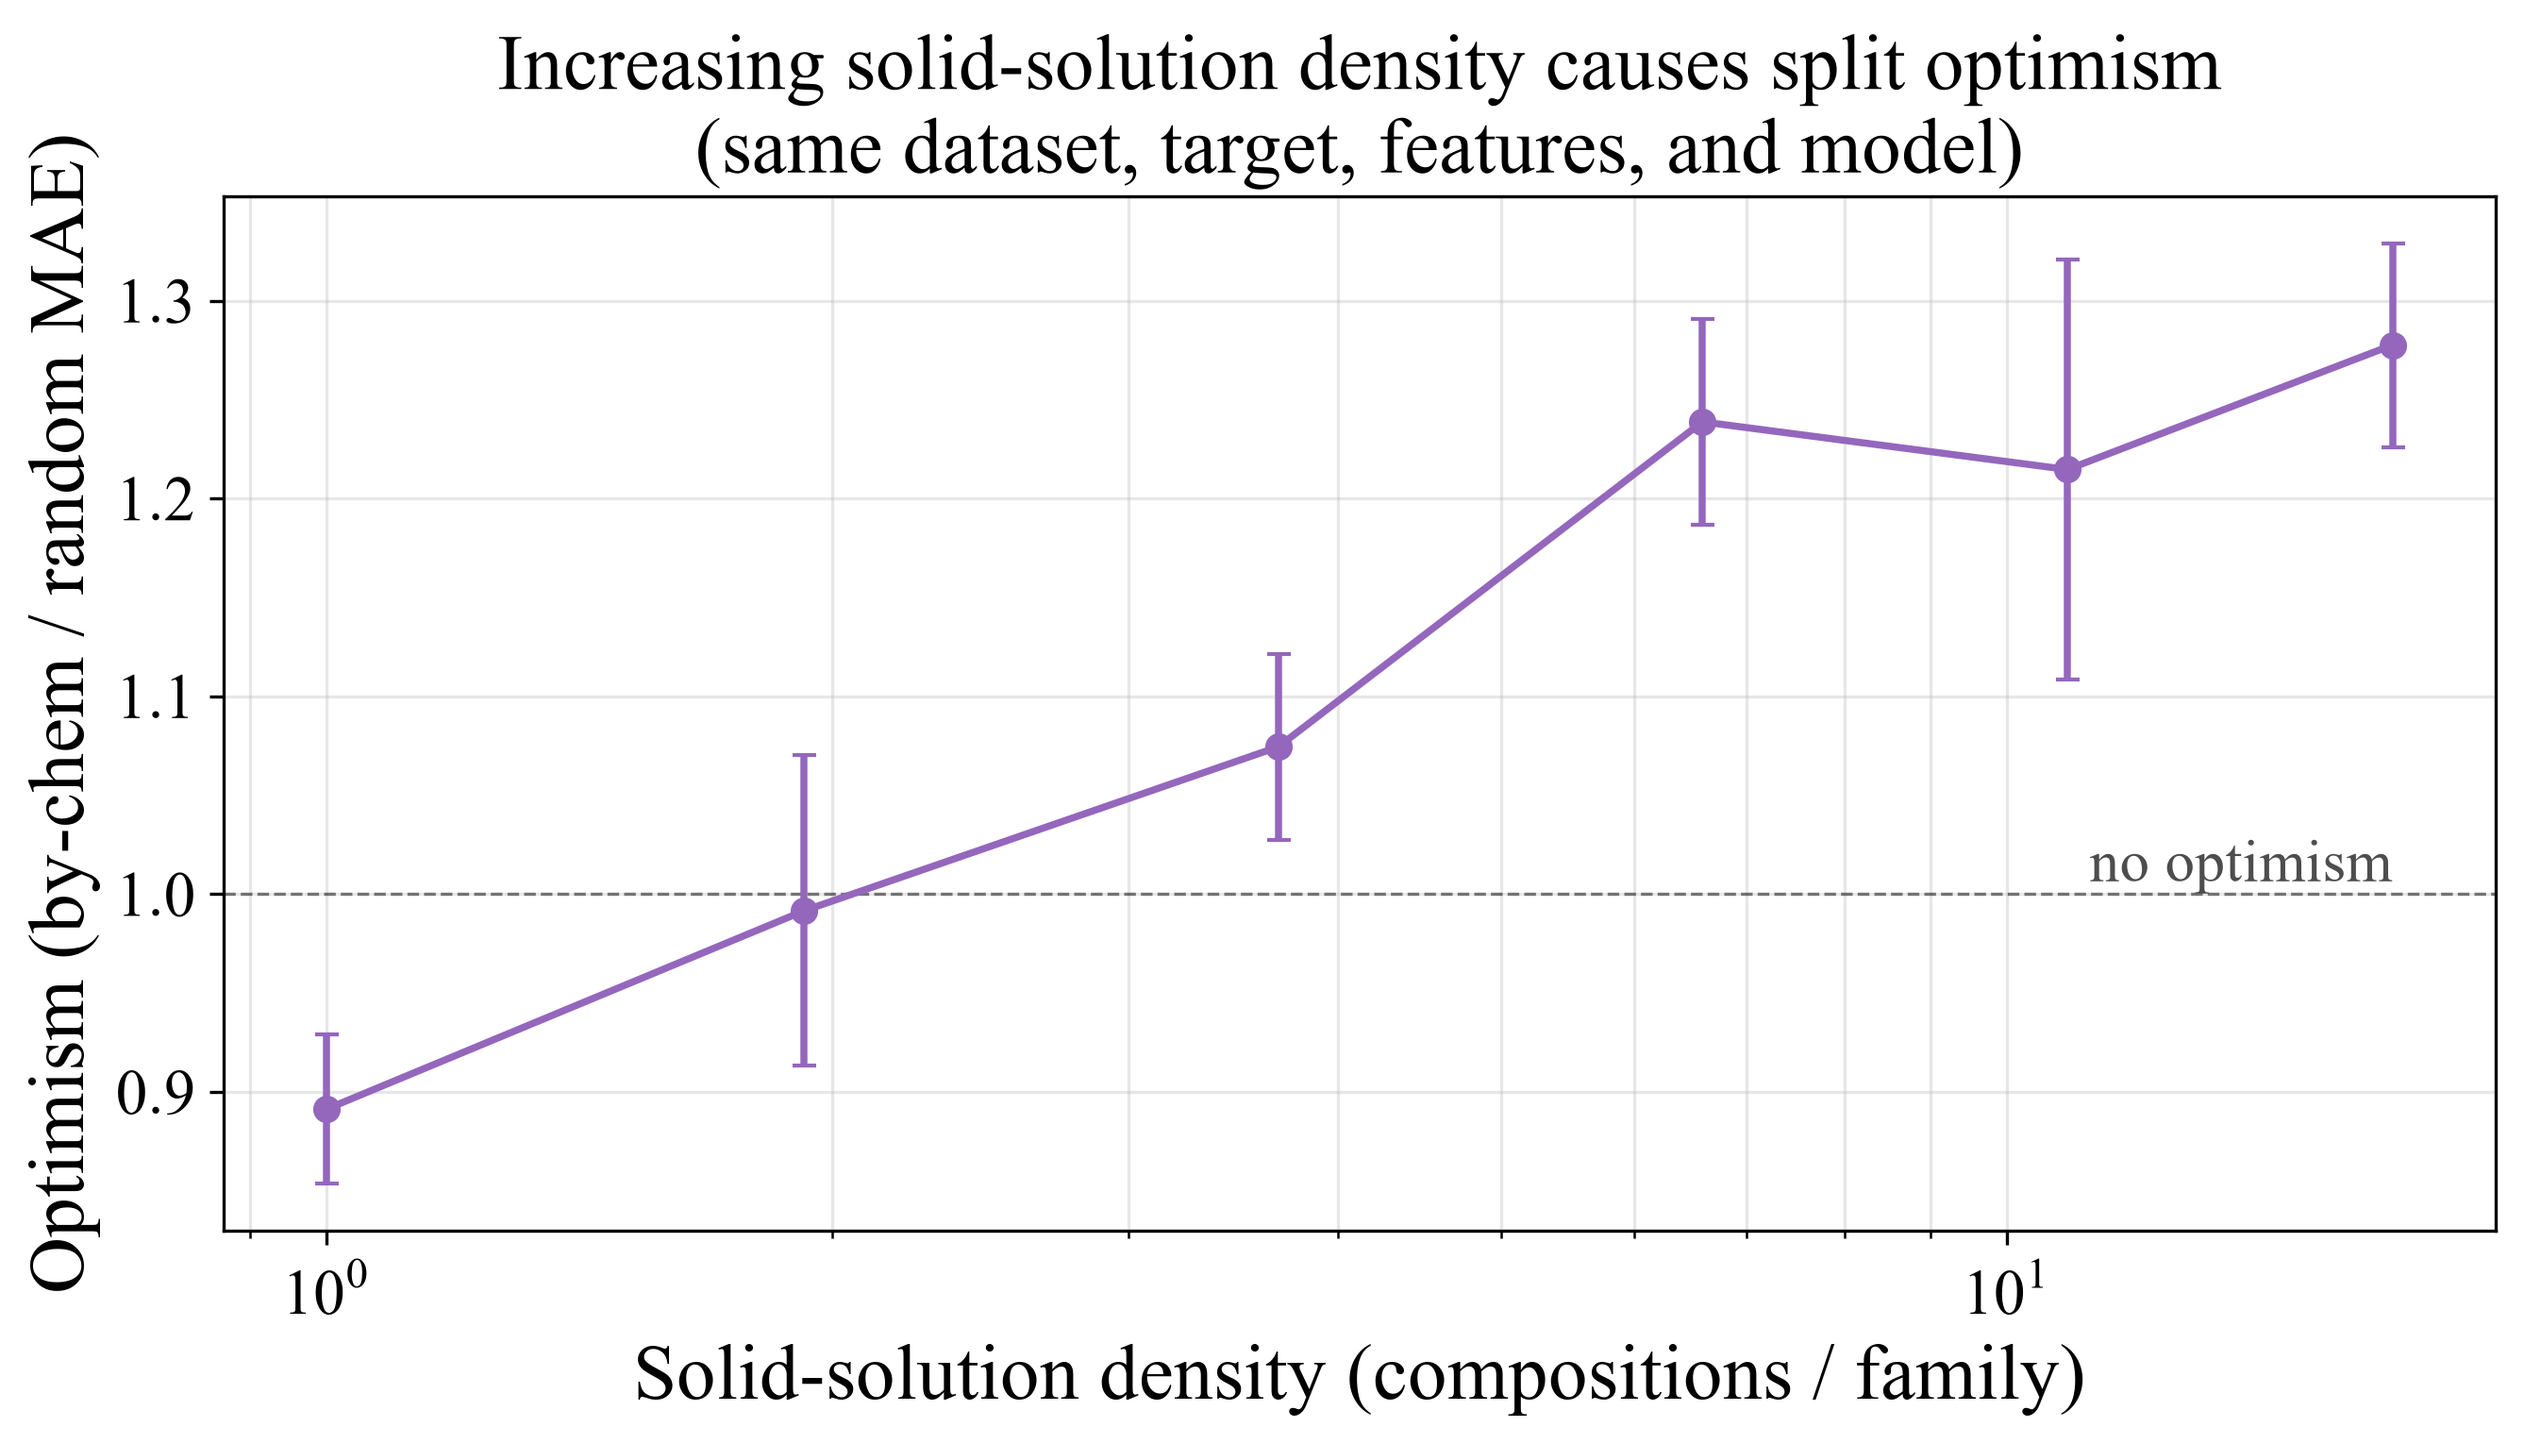
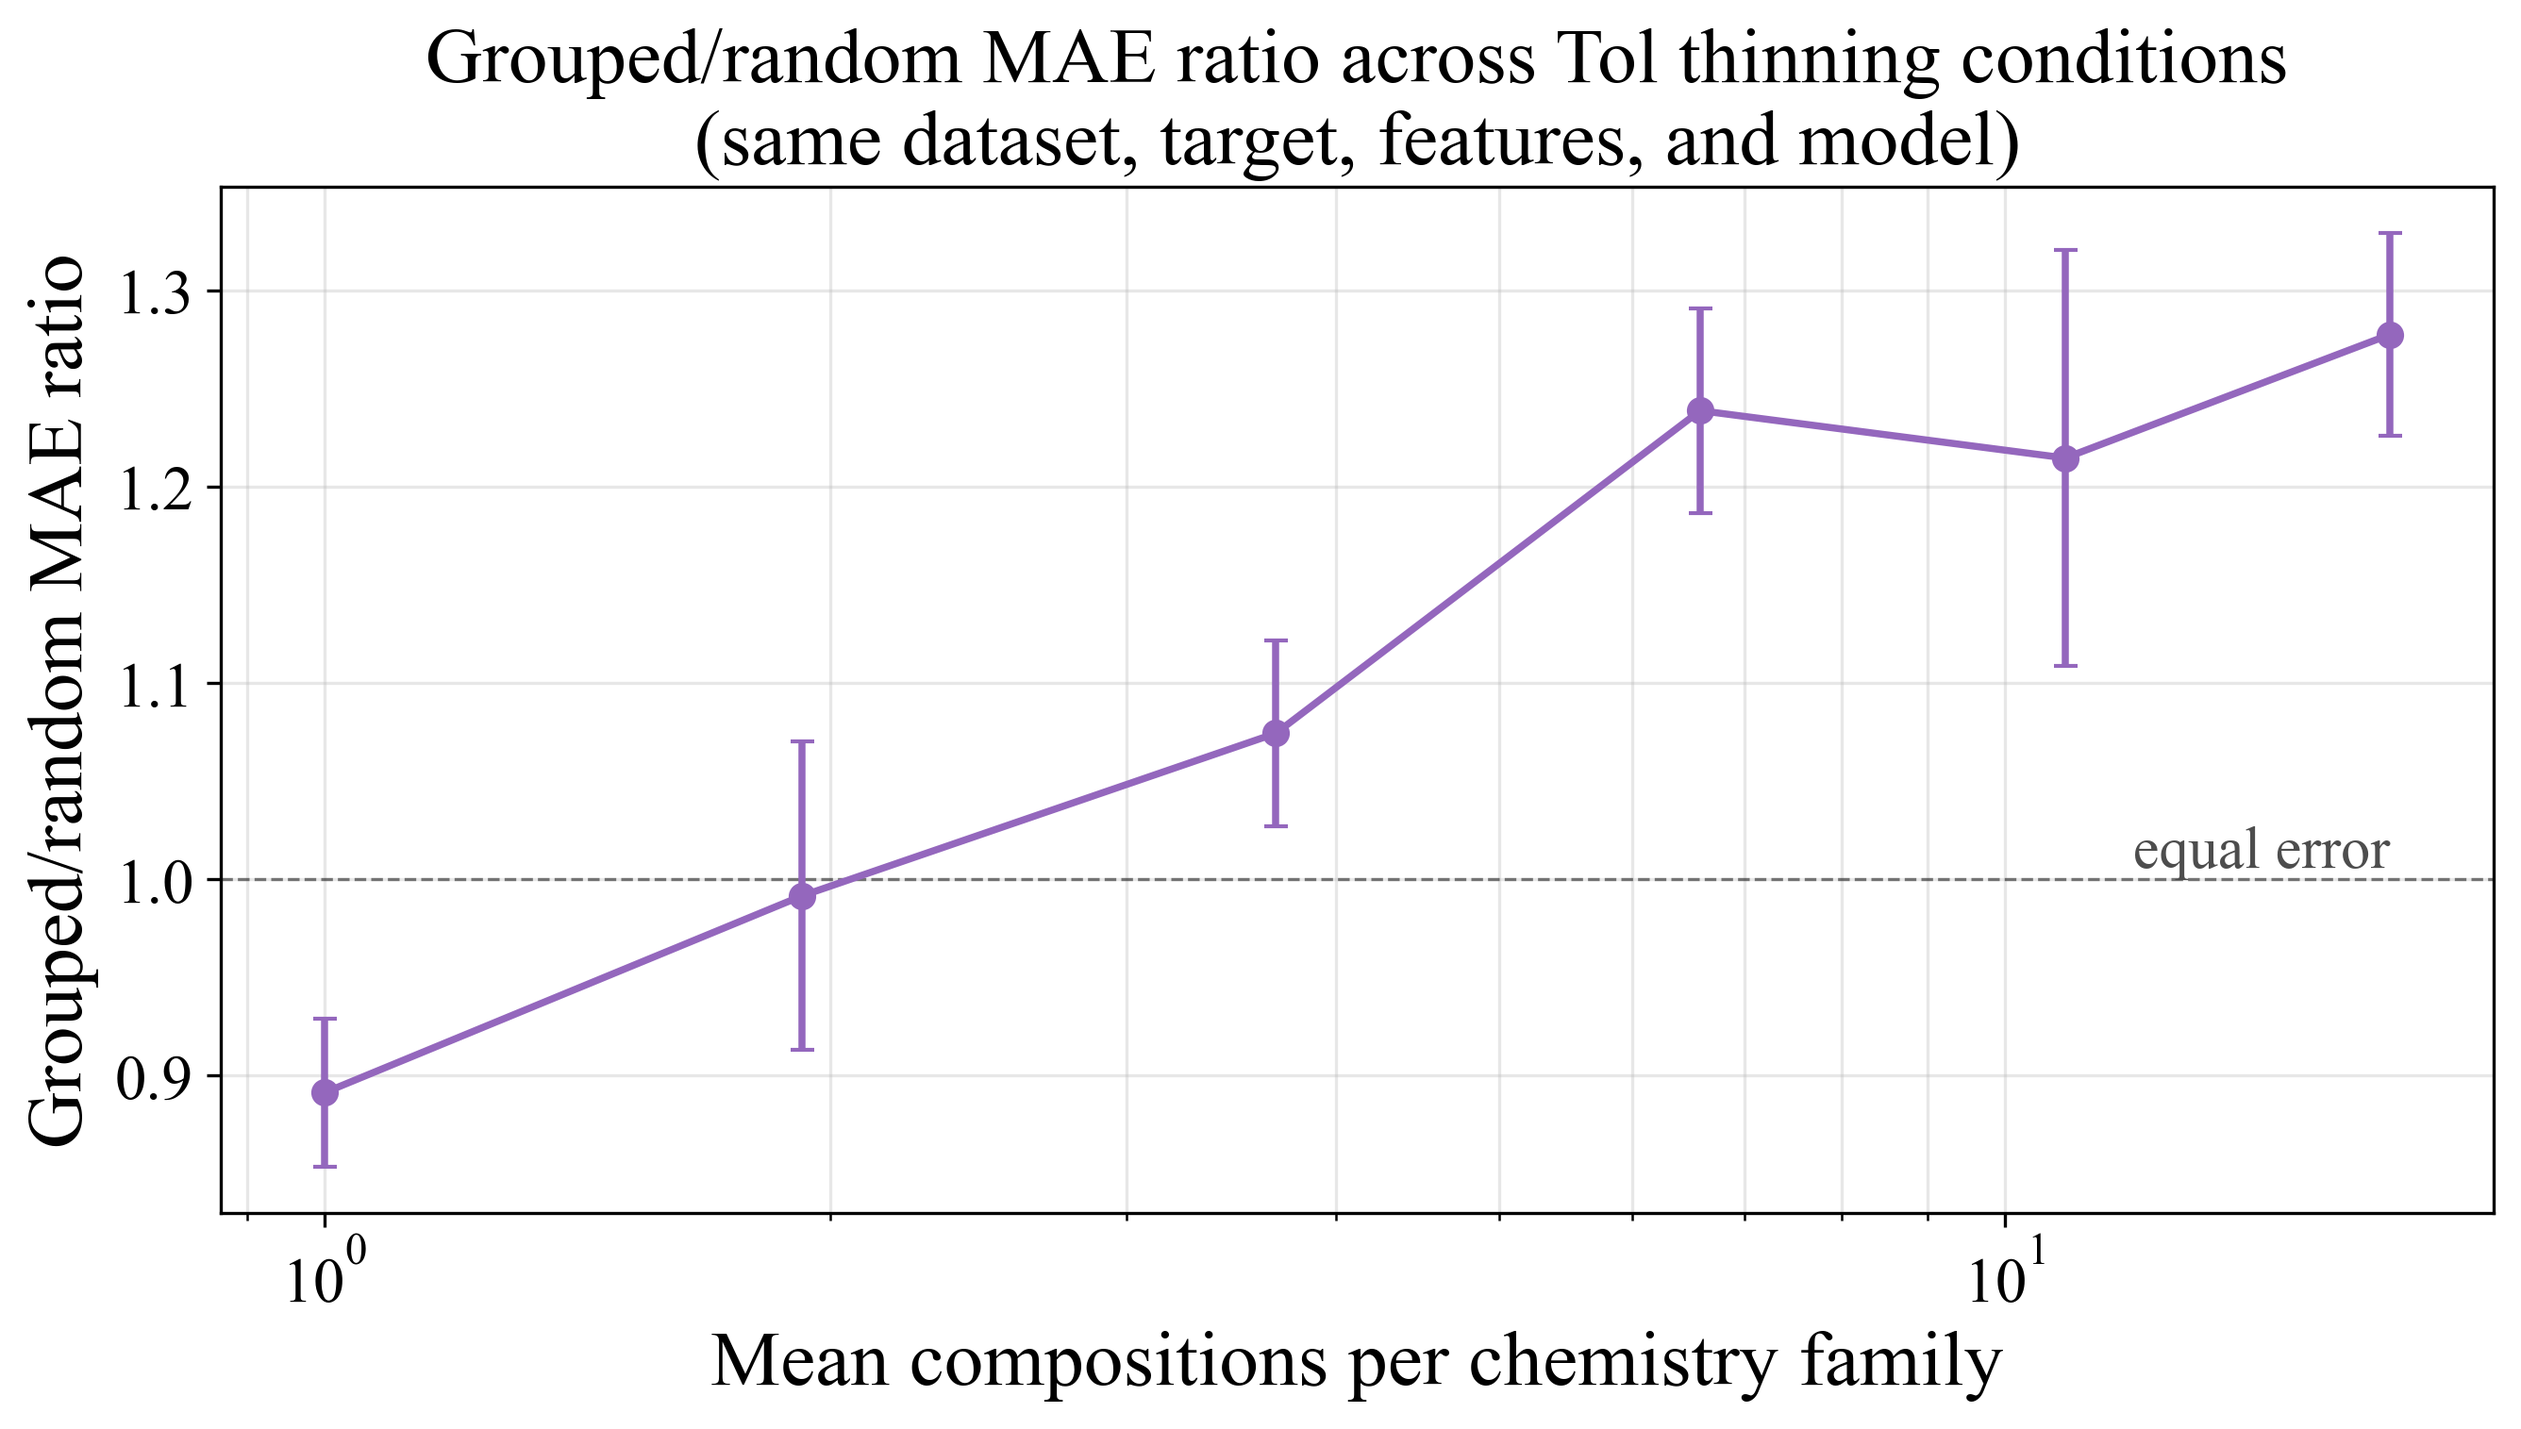
Figures 1 and S4: match the paper's terminology and fit the text
Figure S4 still used the retired names, an Optimism axis against a
solid-solution-density axis, while its caption used the corrected ones.
It now plots the grouped/random MAE ratio against mean compositions per
chemistry family; the data are unchanged.

Figure 1 labelled the gate threshold tau where the paper uses theta, and
its gate and input boxes were narrower than their own text.

Claude-Session: https://claude.ai/code/session_01R1zcSb1ShmCT9wuDRAqQ2U

diff --git a/scripts/make_schematic.py b/scripts/make_schematic.py
@@ -61,27 +61,29 @@ def elbow(ax, pts):
 def main():
     fig, ax = plt.subplots(figsize=(11, 6))
     ax.set_aspect("equal")               # equal units -> no distortion under a tight crop
-    ax.set_xlim(0, 146); ax.set_ylim(8, 92); ax.axis("off")
+    ax.set_xlim(0, 150); ax.set_ylim(8, 92); ax.axis("off")
 
-    box(ax, 13, 60, 20, 22, "Material", "formula +\nnative columns", C_IN)
-    box(ax, 41, 60, 20, 22, "Featurize", "Magpie (132) +\nnative columns", C_IN)
+    # The two input boxes are wider than the rest: their body text is the longest in the diagram and
+    # at the old width it ran past the rounded border.
+    box(ax, 14, 60, 25, 22, "Material", "formula +\nnative columns", C_IN)
+    box(ax, 45, 60, 27, 22, "Featurize", "Magpie (132) +\nnative columns", C_IN)
     box(ax, 78, 80, 26, 18, "Classifier", "metal / non-metal\n→ P(non-metal)", C_CLF)
     box(ax, 78, 40, 26, 18, "Regressor", "non-zero gaps\nlog(1 + gap)", C_REG)
-    box(ax, 112, 60, 18, 21, "Gate", "[P ≥ τ] × ĝap\nτ = 0.25", C_GATE)
-    box(ax, 133, 60, 16, 22, "Predicted", "band gap\n(0 if metal)", C_OUT, fs=14)
+    box(ax, 111, 60, 24, 21, "Gate", "[P ≥ θ] × ĝap\nθ = 0.25", C_GATE)
+    box(ax, 137, 60, 16, 22, "Predicted", "band gap\n(0 if metal)", C_OUT, fs=14)
 
     # input chain
-    elbow(ax, [(23, 60), (31, 60)])                           # material -> featurize
+    elbow(ax, [(27, 60), (31, 60)])                           # material -> featurize
     # branch: featurize -> classifier (up) and regressor (down)
-    line(ax, [(51, 60), (58, 60)])                            # shared stem
-    elbow(ax, [(58, 60), (58, 80), (65, 80)])                 # -> classifier
-    elbow(ax, [(58, 60), (58, 40), (65, 40)])                 # -> regressor
+    line(ax, [(59, 60), (62, 60)])                            # shared stem
+    elbow(ax, [(62, 60), (62, 80), (65, 80)])                 # -> classifier
+    elbow(ax, [(62, 60), (62, 40), (65, 40)])                 # -> regressor
     # merge: classifier & regressor -> gate (Y-join, single clear arrow in)
     line(ax, [(91, 80), (98, 80), (98, 60)])                  # classifier -> merge node
     line(ax, [(91, 40), (98, 40), (98, 60)])                  # regressor  -> merge node
-    elbow(ax, [(98, 60), (103, 60)])                          # merge -> gate
+    elbow(ax, [(98, 60), (99, 60)])                           # merge -> gate
     # output
-    elbow(ax, [(121, 60), (125, 60)])                         # gate -> predicted gap
+    elbow(ax, [(123, 60), (129, 60)])                         # gate -> predicted gap
 
     note = ("Evaluation: report non-zero-subset MAE / RMSE (not aggregate accuracy),\n"
             "under random / by-composition / by-chemistry splits")

diff --git a/scripts/mechanism_causal.py b/scripts/mechanism_causal.py
@@ -120,10 +120,12 @@ def main():
     ax.errorbar(dens, opt, yerr=err, marker="o", ms=6, lw=1.8, capsize=3,
                 color="tab:purple", zorder=3)
     ax.axhline(1.0, color="k", lw=0.8, alpha=0.5, ls="--")
-    ax.text(dens.max(), 1.0, " no optimism", va="bottom", ha="right", fontsize=15, color="0.3")
+    ax.text(dens.max(), 1.0, " equal error", va="bottom", ha="right", fontsize=15, color="0.3")
     ax.set_xscale("log")
-    ax.set_xlabel("Solid-solution density (compositions / family)")
-    ax.set_ylabel("Optimism (by-chem / random MAE)")
+    # Terminology follows the manuscript: the metric is the grouped/random MAE ratio, and a formula
+    # is a proxy for a composition family, not evidence of solid-solution disorder.
+    ax.set_xlabel("Mean compositions per chemistry family")
+    ax.set_ylabel("Grouped/random MAE ratio")
     ax.set_title("Grouped/random MAE ratio across Tol thinning conditions\n"
                  "(same dataset, target, features, and model)")
     ax.grid(alpha=0.3, which="both")
